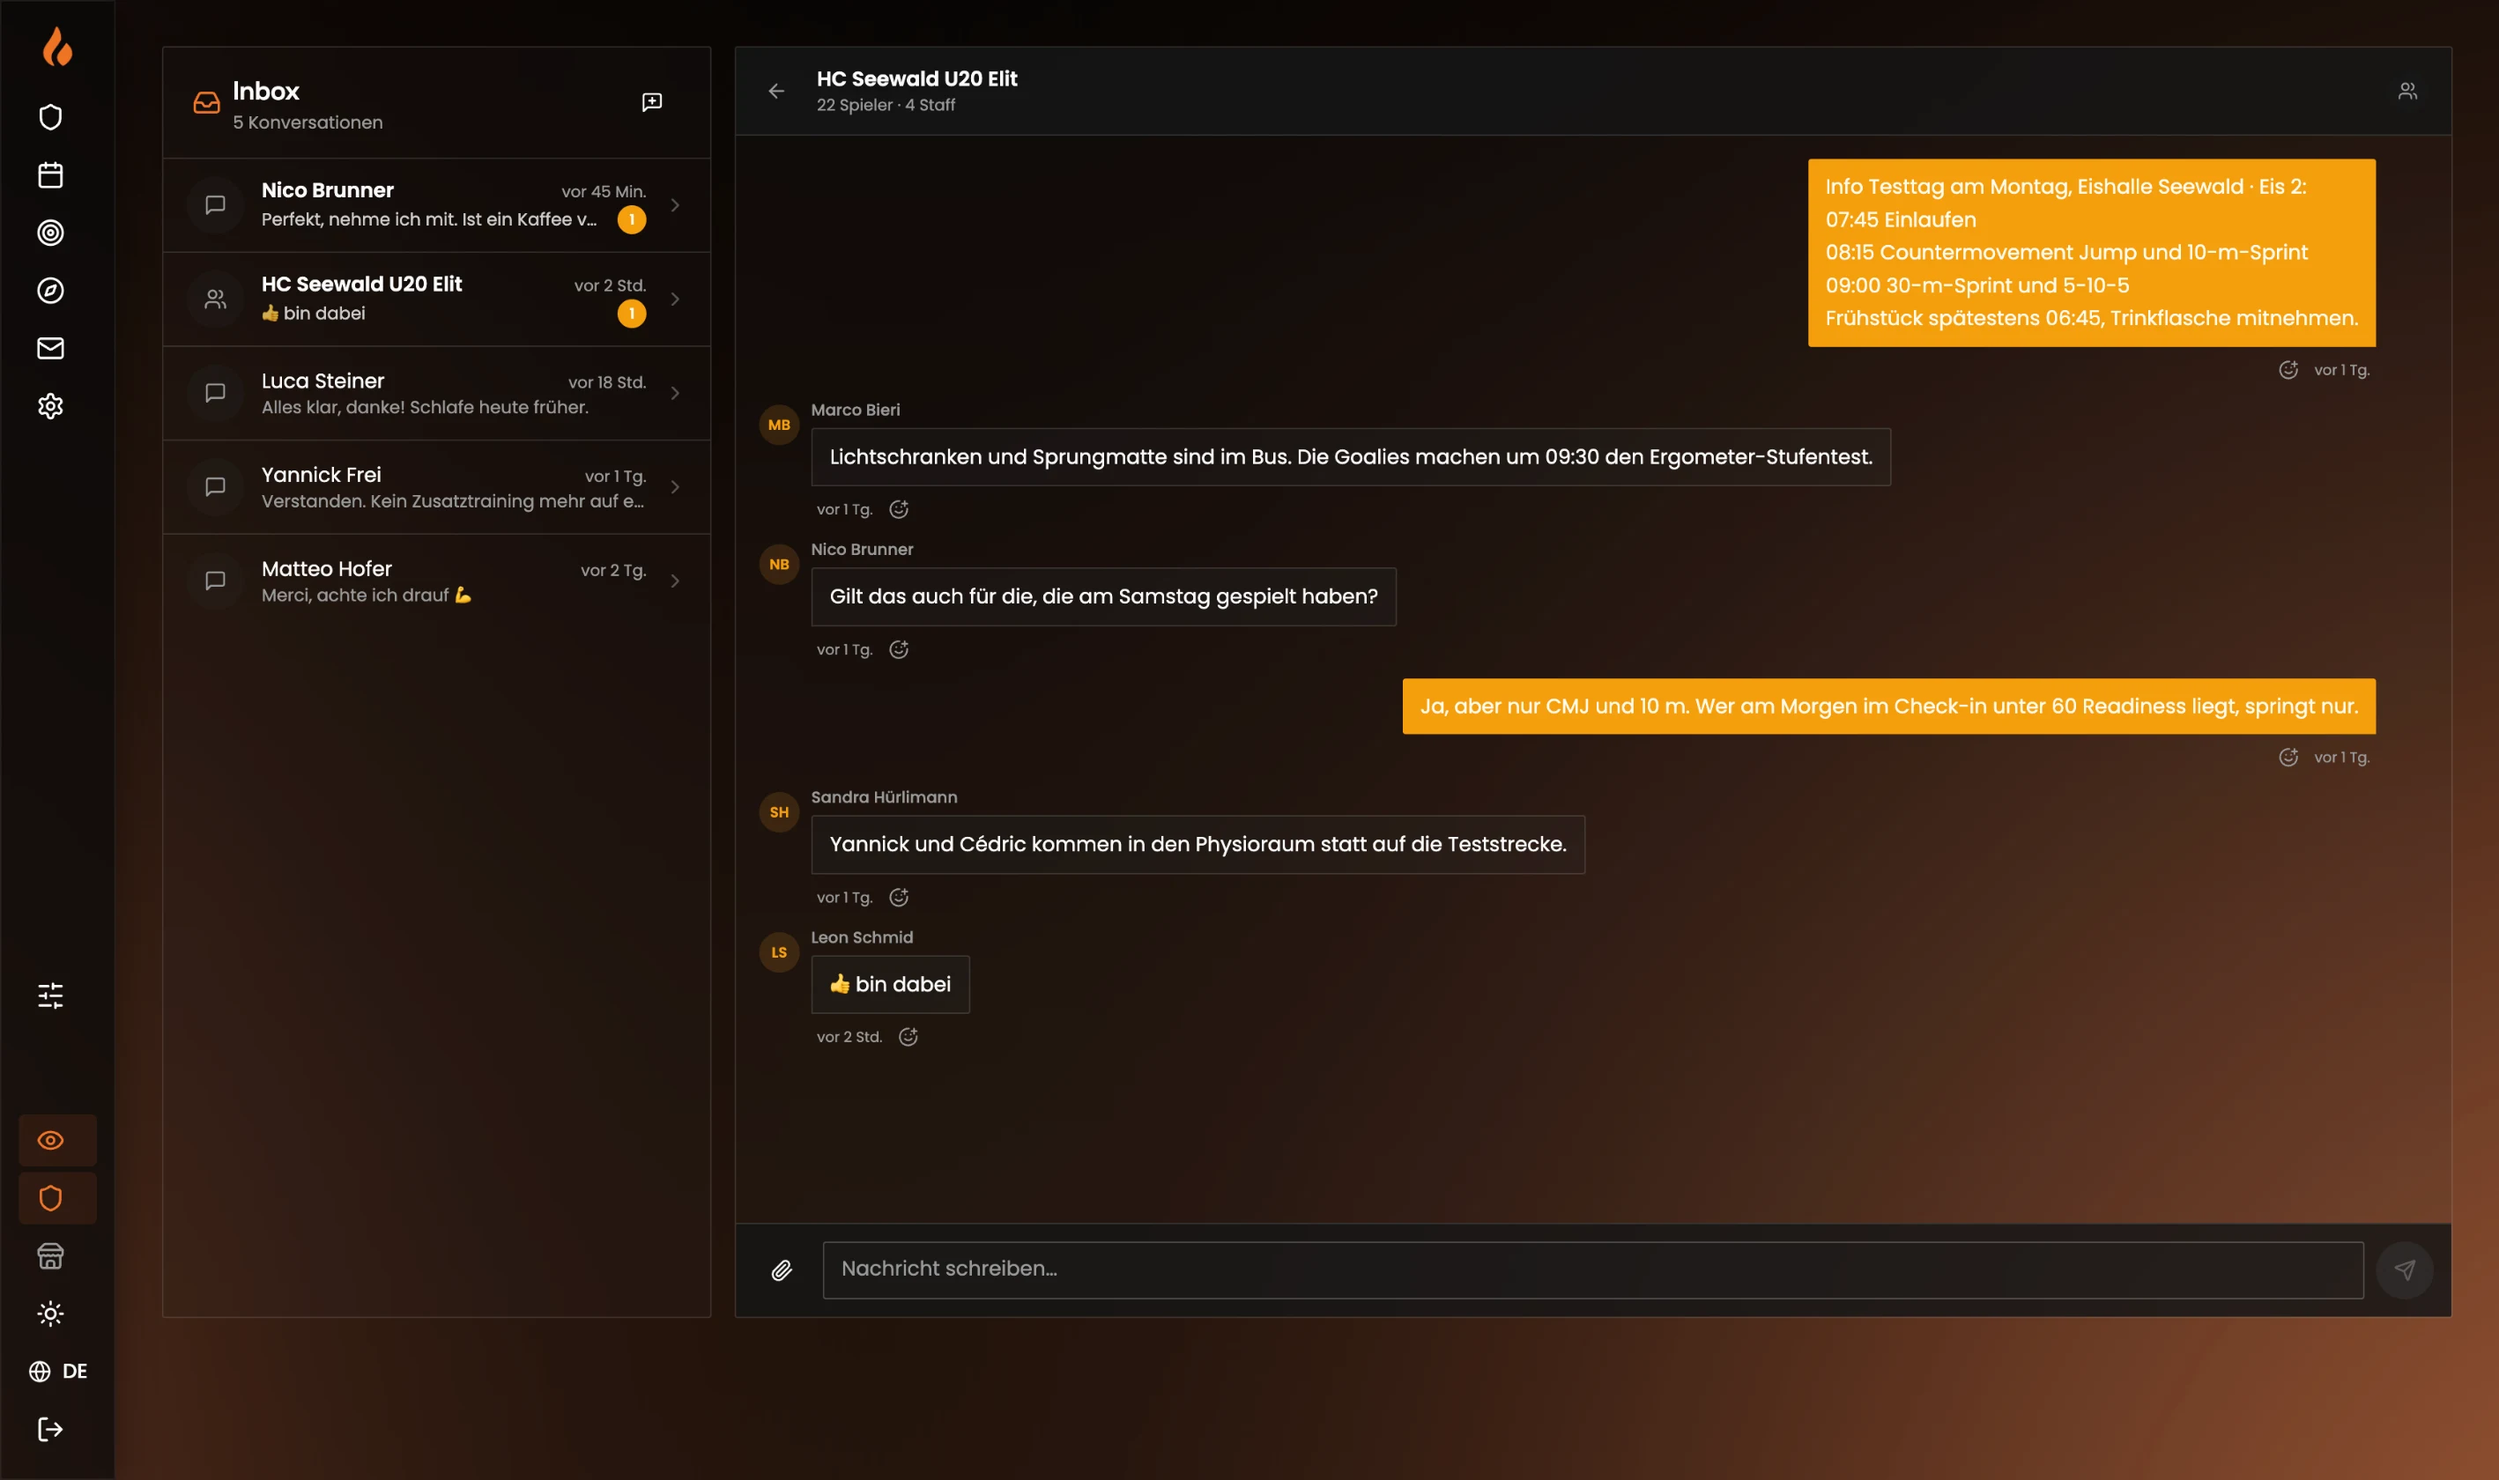
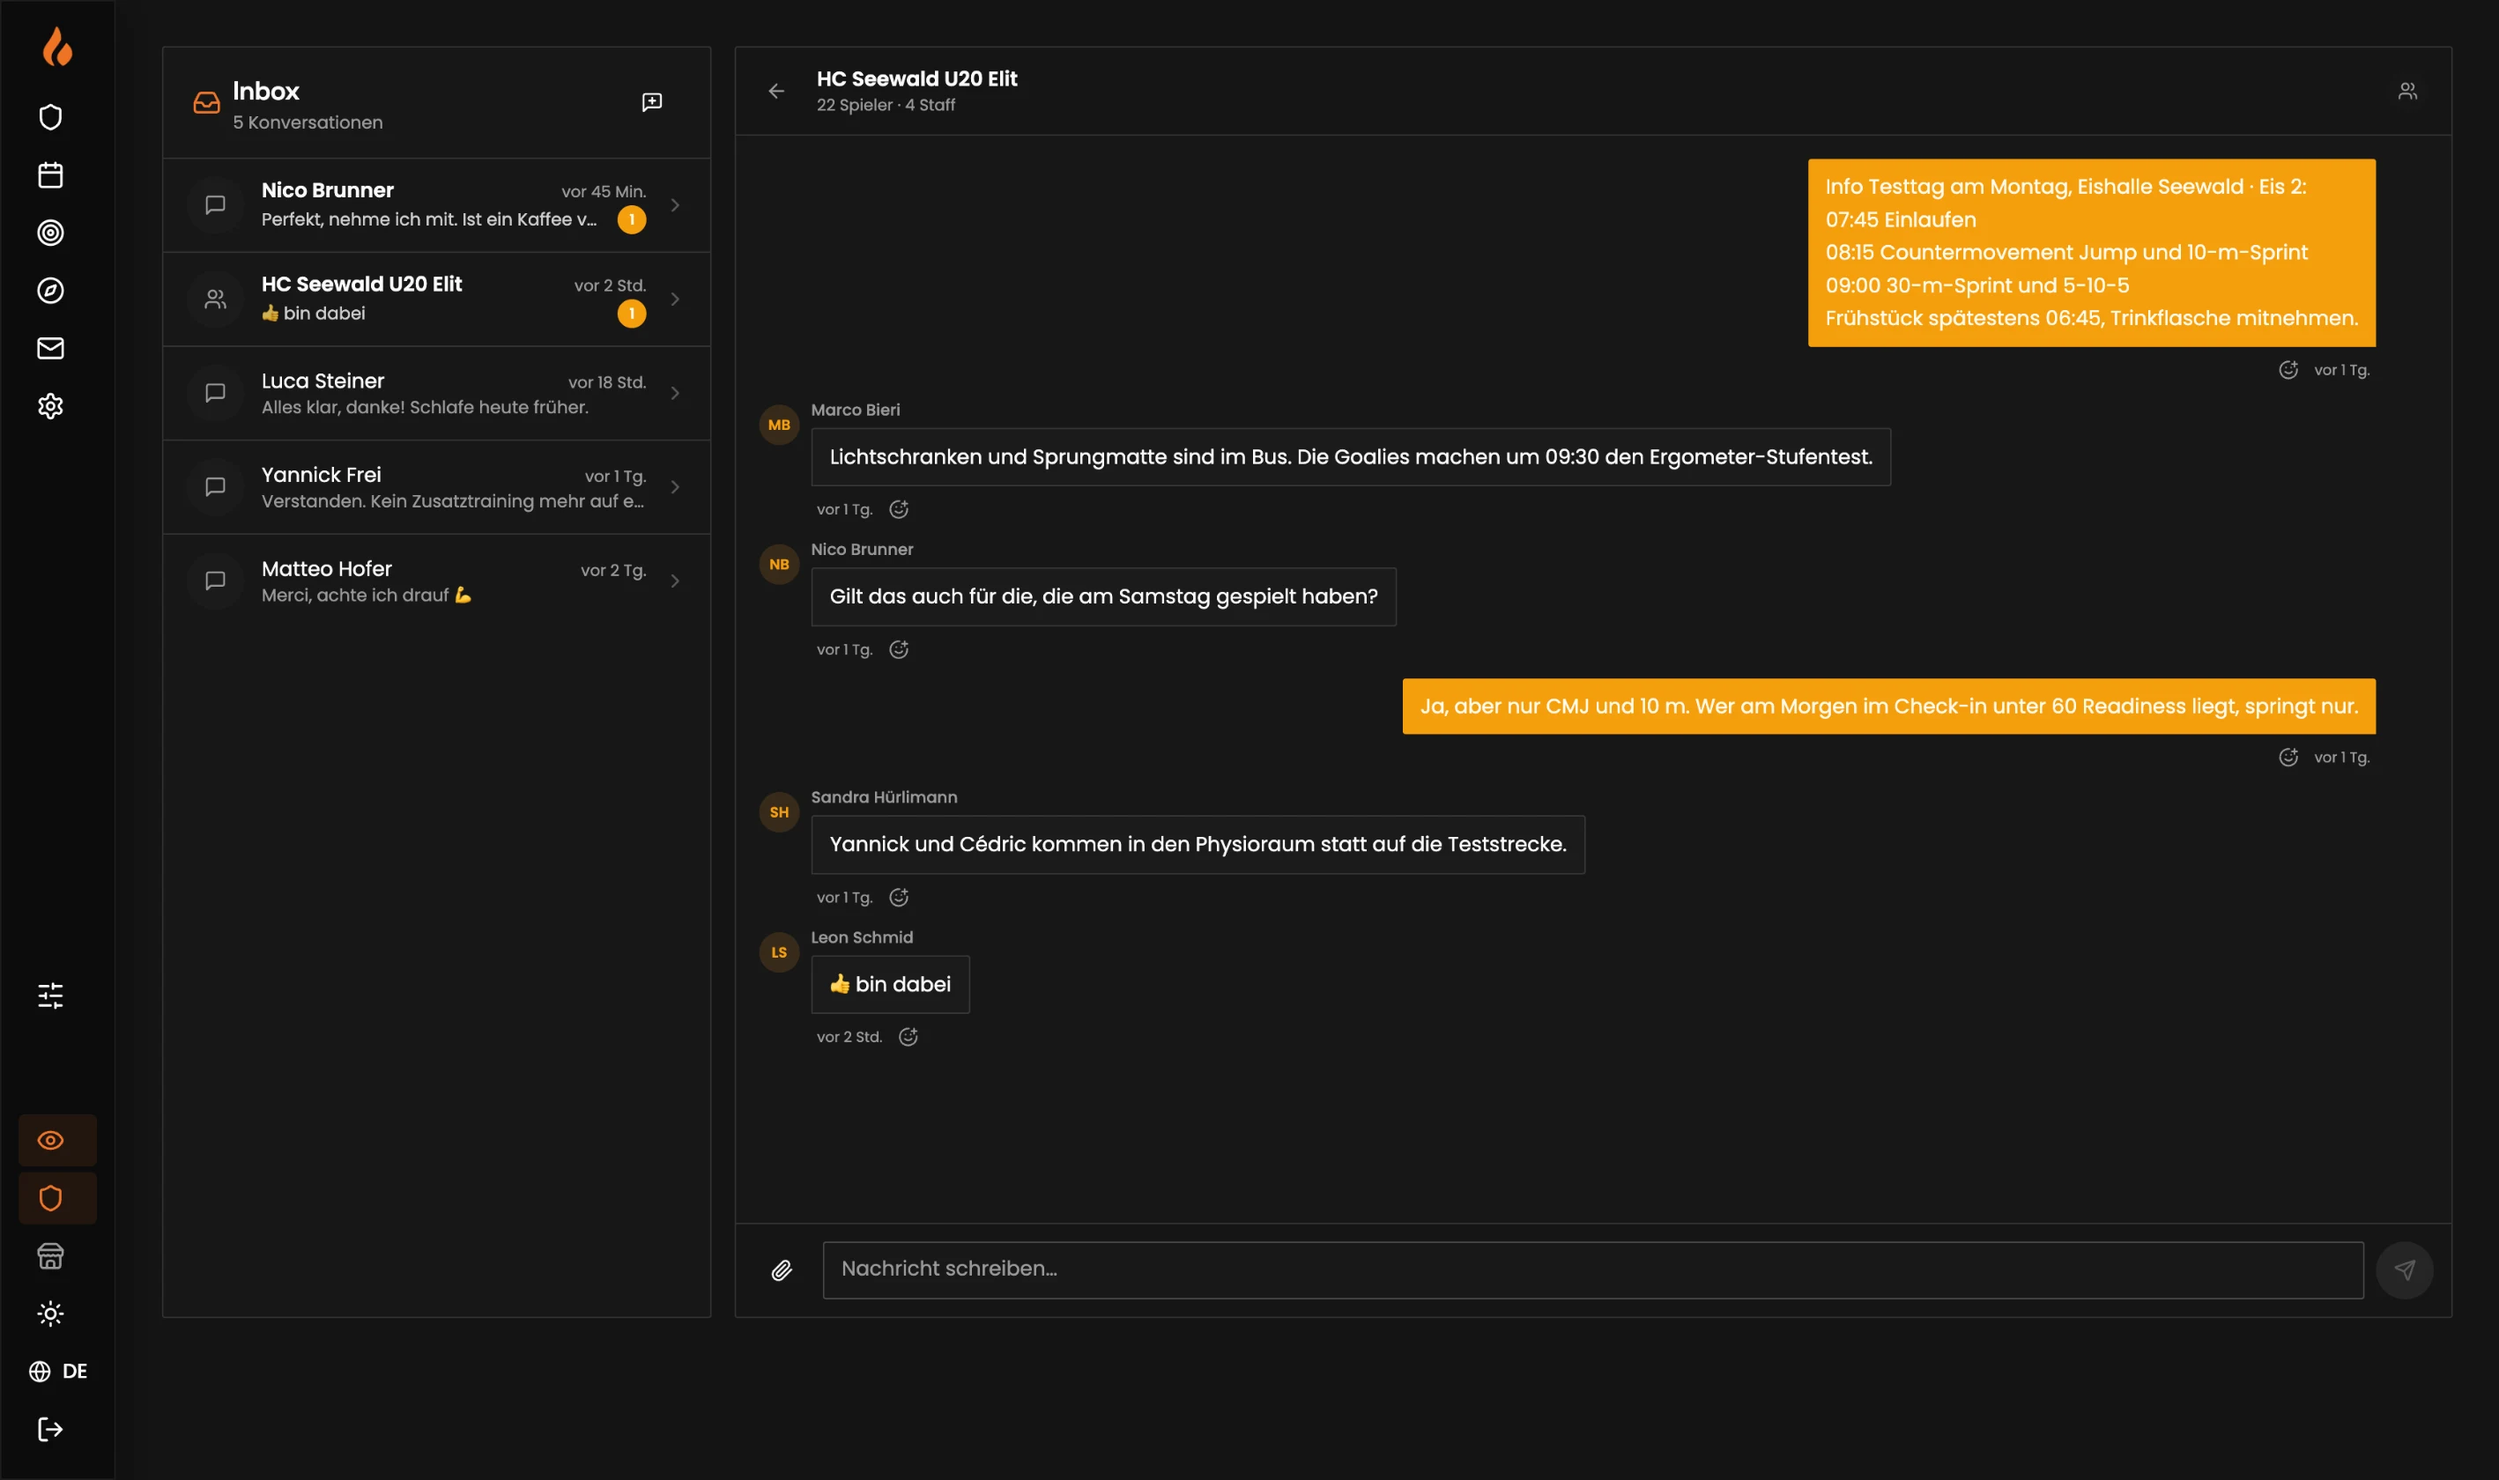
fix(praesentation): Handy-Screens zoomen gross und scrollbar, Posteingang ohne alten Verlaufs-Hintergrund
Ein Klick auf ein Handy öffnet es in Lesegrösse (bis 620 px breit),
Mausrad oder Pfeil hoch/runter scrollt, jede andere Taste schliesst.
Der Posteingang der Coach-Web lädt noch das alte gradient-bg-dark.png;
für die Aufnahme ausgeblendet. Die App selbst trägt es noch auf mehreren
Seiten (eigener Task).

Changed region(s): [[0.4965, 0.1548, 1.0, 1.0], [0.031, 0.5571, 0.2172, 1.0]]

diff --git a/src/pages/TeamPresentation.jsx b/src/pages/TeamPresentation.jsx
@@ -626,6 +626,8 @@ export default function TeamPresentation() {
 
   useEffect(() => {
     const onKey = (e) => {
+      /* Up/down scroll a tall (phone) screen; any other key closes the zoom. */
+      if (zoom && zoom.tall && ['ArrowDown', 'ArrowUp'].includes(e.key)) return
       if (zoom) { e.preventDefault(); setZoom(null); return }
       if (['ArrowRight', ' ', 'PageDown', 'Enter'].includes(e.key)) { e.preventDefault(); go((c) => c + 1) }
       else if (['ArrowLeft', 'PageUp', 'Backspace'].includes(e.key)) { e.preventDefault(); go((c) => c - 1) }
@@ -670,7 +672,7 @@ export default function TeamPresentation() {
         onClick={(e) => {
           if (e.target.closest('button, a')) return
           if (zoom) { setZoom(null); return }
-          if (e.target.matches('img[data-zoom]')) { setZoom(e.target.currentSrc || e.target.src); return }
+          if (e.target.matches('img[data-zoom]')) { setZoom({ src: e.target.currentSrc || e.target.src, tall: e.target.naturalHeight > e.target.naturalWidth }); return }
           go((c) => c + (e.clientX > window.innerWidth / 3 ? 1 : -1))
         }}
       >
@@ -698,9 +700,17 @@ export default function TeamPresentation() {
         </div>
 
         {zoom && (
+          zoom.tall ? (
+            /* A phone screen opens at reading size and scrolls, instead of
+               shrinking to the frame height it already had on the slide. */
+            <div className="absolute inset-0 z-20 bg-black/90 overflow-y-auto cursor-zoom-out">
+              <img src={zoom.src} alt="" className="mx-auto my-8 w-[min(92vw,620px)] h-auto rounded-[2rem] border-[3px] border-white/15 shadow-2xl" />
+            </div>
+          ) : (
           <div className="absolute inset-0 z-20 bg-black/90 flex items-center justify-center p-4 sm:p-8 cursor-zoom-out">
-            <img src={zoom} alt="" className="max-w-full max-h-full rounded-xl shadow-2xl" />
+            <img src={zoom.src} alt="" className="max-w-full max-h-full rounded-xl shadow-2xl" />
           </div>
+          )
         )}
 
         <ChapterRail
